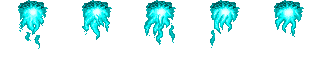
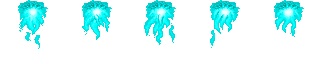
Updated AnimSprite and added

diff --git a/3042/Source/Game/Player.cs b/3042/Source/Game/Player.cs
@@ -15,7 +15,7 @@ namespace _3042
     class Player
     {
         //Enums
-        enum EControls
+        public enum EControls
         {
             MOUSE,
             KEYBOARD
@@ -26,15 +26,15 @@ namespace _3042
             LEFT,
             RIGHT
         };
-        enum EWeaponType
+        public enum EWeaponType
         {
             BASIC,
             ADVANCED,
             MAX
         };
         EMoveAnim _moveAnimation = EMoveAnim.STOP;
-        EControls _controls = EControls.MOUSE;
-        EWeaponType _weaponType = EWeaponType.MAX;
+        public EControls _controls = EControls.KEYBOARD;
+        public EWeaponType _weaponType = EWeaponType.MAX;
 
         //Varibles
         public AnimSprite Sprite;
@@ -72,11 +72,10 @@ namespace _3042
             //Misc
             DeltaTime = (float)getGameTime.ElapsedGameTime.TotalMilliseconds / 12;
 
-            BackBurnerEffect.UpdateAnimation();
-
             SetupAnimations();
 
             Weapon();
+            
 
             switch (_controls)
             {
@@ -90,6 +89,8 @@ namespace _3042
             Direction.Normalize();
             Position += Direction * Speed;
 
+            //Backburner effect
+            BackBurnerEffect.UpdateAnimation(0.3f);
             BackBurnerEffectPos.X = Position.X;
             BackBurnerEffectPos.Y = Position.Y + 30;
 
@@ -145,14 +146,14 @@ namespace _3042
             bulletLeft.Position = new Vector2(Position.X - 20, Position.Y - 25);
             bulletLeft.Direction = new Vector2(Position.X - 20, -100) - bulletLeft.Position;
             bulletLeft.Direction.Normalize();
-            bulletLeft.Speed = 20f;
+            bulletLeft.Speed = 15f;
             BulletList.Add(bulletLeft);
 
             Bullet bulletRight = new Bullet();
             bulletRight.Position = new Vector2(Position.X + 20, Position.Y - 25);
             bulletRight.Direction = new Vector2(Position.X + 20, -100) - bulletRight.Position;
             bulletRight.Direction.Normalize();
-            bulletRight.Speed = 20f;
+            bulletRight.Speed = 15f;
             BulletList.Add(bulletRight);
         }
         private void ShootMax()
@@ -161,14 +162,14 @@ namespace _3042
             bulletLeft.Position = new Vector2(Position.X, Position.Y - 25);
             bulletLeft.Direction = new Vector2(Position.X - 100, -100) - bulletLeft.Position;
             bulletLeft.Direction.Normalize();
-            bulletLeft.Speed = 20f;
+            bulletLeft.Speed = 18f;
             BulletList.Add(bulletLeft);
 
             Bullet bulletRight = new Bullet();
             bulletRight.Position = new Vector2(Position.X, Position.Y - 25);
             bulletRight.Direction = new Vector2(Position.X + 100, -100) - bulletRight.Position;
             bulletRight.Direction.Normalize();
-            bulletRight.Speed = 20f;
+            bulletRight.Speed = 18f;
             BulletList.Add(bulletRight);
         }
 

diff --git a/3042/Source/Game/Levels/Level_Base.cs b/3042/Source/Game/Levels/Level_Base.cs
@@ -14,22 +14,92 @@ namespace _3042
 {
     class Level_Base
     {
+        //Misc
+        ContentManager Content;
+
         //Varibles
         public Player player;
+        public List<Enemy> EnemyList = new List<Enemy>();
+
+        int timertest;
 
 
         public Level_Base(ContentManager getContent, Rectangle getScreenSize)
         {
+            //Misc
+            Content = getContent;
+
             player = new Player(getContent, getScreenSize);
         }
 
         public void Update(GameTime getGameTime)
         {
             player.Update(getGameTime);
+
+            timertest++;
+            if (timertest >= 50)
+            {
+                SpawnEnemy("graphics/asteroidss", 54, 54, 30, 1,
+                    new Vector2(350, -100), new Vector2 (350, 800), 3f, 0.5f);
+
+                timertest = 0;
+            }
+
+            foreach (Enemy enemy in EnemyList)
+            {
+                enemy.Update();
+            }
+
+            CollisionDetection();
+
+        }
+
+        public void SpawnEnemy(string getTexture, int getWidth, int getHeight, int geRows, int getColumns, Vector2 getPos, Vector2 getDir, float getSpeed, float getDelay)
+        {
+            Enemy enemy = new Enemy(Content, getTexture, getWidth, getHeight, geRows, getColumns);
+            enemy.Delay = getDelay;
+            enemy._spriteType = Enemy.ESpriteType.ANIM;
+            enemy.Position = getPos;
+            enemy.Direction = getDir - enemy.Position;
+            enemy.Direction.Normalize();
+            enemy.Speed = getSpeed;
+
+            EnemyList.Add(enemy);
+        }
+        public void SpawnEnemy(string getTexture, int getWidth, int getHeight, Vector2 getPos, Vector2 getDir, float getSpeed)
+        {
+            Enemy enemy = new Enemy(Content, getTexture, getWidth, getHeight);
+            enemy._spriteType = Enemy.ESpriteType.BASIC;
+            enemy.Position = getPos;
+            enemy.Direction = getDir - enemy.Position;
+            enemy.Direction.Normalize();
+            enemy.Speed = getSpeed;
+
+            EnemyList.Add(enemy);
+        }
+
+        private void CollisionDetection()
+        {
+            foreach (Enemy enemy in EnemyList)
+            {
+                foreach (Bullet bullet in player.BulletList)
+                {
+                    if (CheckCollision.Collision(bullet.CollisionBox, enemy.CollisionBox))
+                    {
+                        enemy.isAlive = false;
+                        bullet.isAlive = false;
+                    }
+                }
+            }
         }
 
         public void Draw(SpriteBatch sB)
         {
+            foreach (Enemy enemy in EnemyList)
+            {
+                enemy.Draw(sB);
+            }
+
             player.Draw(sB);
         }
 

diff --git a/3042/Source/Engine/AnimSprite.cs b/3042/Source/Engine/AnimSprite.cs
@@ -19,9 +19,11 @@ namespace _3042
         public int Columns;
         public int Width;
         public int Height;
-        public int currentFrame;
+        public float currentFrame;
+        public float totalFrames;
+        public bool AnimationFinnished = false;
 
-        private int totalFrames;
+        private int DelayTime;
 
         public AnimSprite(ContentManager getContent, string getTexture, int getWidth, int getHeight, int getRows, int getColumns)
         {
@@ -34,11 +36,14 @@ namespace _3042
             totalFrames = Rows * Columns;
         }
 
-        public void UpdateAnimation()
+        public void UpdateAnimation(float getDelay)
         {
-            currentFrame++;
-            if (currentFrame == totalFrames)
+            currentFrame += getDelay;
+            if (currentFrame >= totalFrames)
+            {
+                AnimationFinnished = true;
                 currentFrame = 0;
+            }
         }
 
         public void Draw(SpriteBatch sB, Vector2 getLocation)
@@ -47,7 +52,7 @@ namespace _3042
             int sourceHeight = Texture.Height / Rows;
 
             int row = (int)((float)currentFrame / (float)Columns);
-            int column = currentFrame % Columns;
+            int column = (int)currentFrame % Columns;
 
             Rectangle sourceRectangle = new Rectangle(sourceWidth * column, sourceHeight * row, sourceWidth, sourceHeight);
             Rectangle destinationRectangle = new Rectangle((int)getLocation.X, (int)getLocation.Y, Width, Height);

diff --git a/3042/Source/Game/Bullet.cs b/3042/Source/Game/Bullet.cs
@@ -18,10 +18,17 @@ namespace _3042
         public Vector2 Position;
         public Vector2 Direction;
         public float Speed;
+        public Rectangle CollisionBox;
+        public bool isAlive = true;
+        public bool DebugMode = false;
+
+        private Texture2D CollisionBoxTexture;
 
         public void Update(ContentManager getContent, string getTexture, int getWidth, int getHeight)
         {
             sprite = new BasicSprite(getContent, getTexture, getWidth, getHeight);
+
+            CollisionBoxTexture = getContent.Load<Texture2D>("graphics/collisionbox");
 
             sprite.Position = Position;
 
@@ -31,7 +38,17 @@ namespace _3042
 
         public void Draw(SpriteBatch sB)
         {
-            sprite.Draw(sB);
+            if (isAlive)
+            {
+                sprite.Draw(sB);
+                CollisionBox = new Rectangle((int)Position.X - sprite.Width / 2, (int)Position.Y - sprite.Height / 2, sprite.Width, sprite.Height);
+
+                if (DebugMode)
+                    sB.Draw(CollisionBoxTexture, CollisionBox, Color.White);
+
+            }
+            else
+                CollisionBox = Rectangle.Empty;
         }
 
     }
